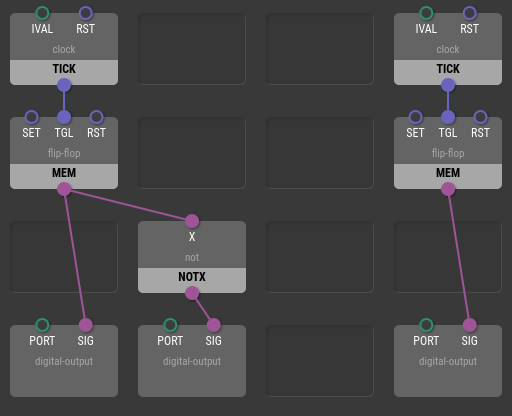
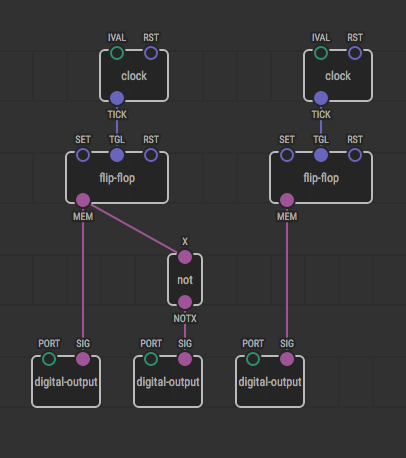
chore(docs): update docs illustrations to new UI look

diff --git a/docs/guide/program-structure/README.md b/docs/guide/program-structure/README.md
@@ -44,8 +44,8 @@ Some nodes send an output on their own as a reaction to some external event.
 For example, the [clock](/libs/xod/core/clock/) node sends outputs at regular
 time intervals.
 
-Pins are depicted as holes with short labels. Inputs are placed on a darker
-background, and outputs are placed on a lighter background.
+Pins are depicted as holes with short labels. Inputs are placed at the top
+of the node, and outputs are at the bottom.
 
 ![Nodes inputs and outputs](./nodes-inputs-outputs.png)
 
